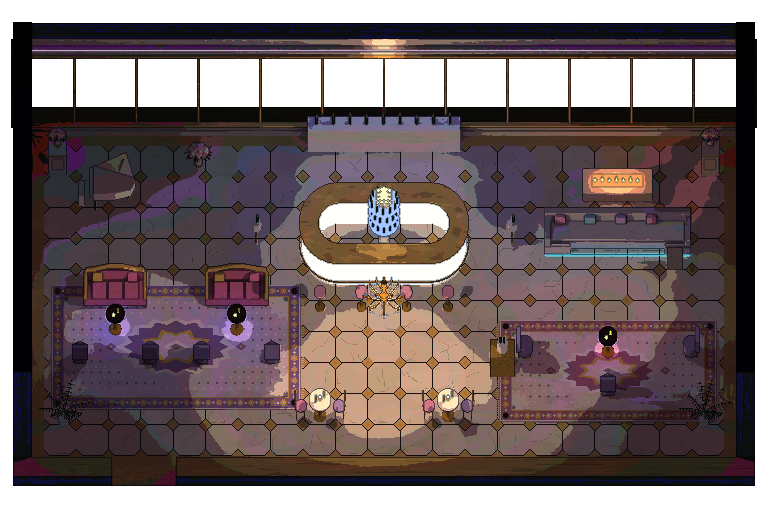
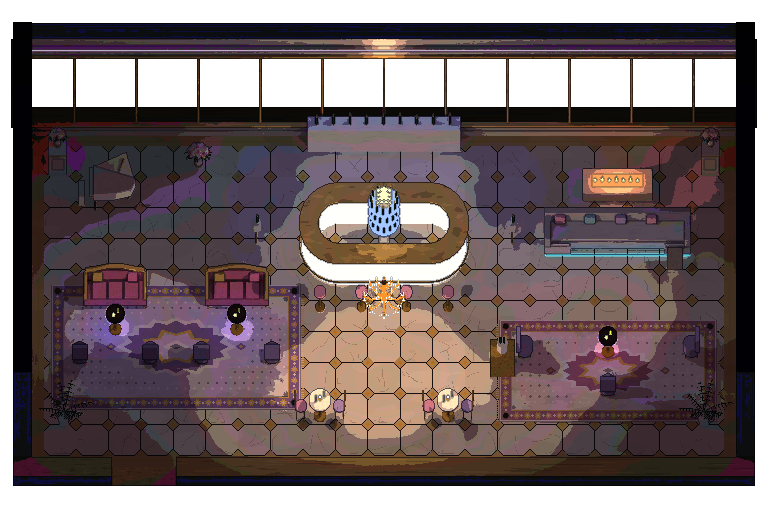
The champagne bar: its chandelier shines gold and lit in the toy finish
Claude-Session: https://claude.ai/code/session_018nrKREDsAd8AvHNKa8Q1tE

diff --git a/tools/bridge-art/scenes/arcadia_champagne.py b/tools/bridge-art/scenes/arcadia_champagne.py
@@ -14,6 +14,7 @@ import math
 import sys
 
 from _spires_room import SP, E, CA, PH, S, Kit, render, look, out_door, write_world  # noqa: F401
+E.GLEAM = True                                    # chandeliers and candles stay bright through the toy finish
 
 OUT = sys.argv[1]
 WID = 'arcadia-champagne'
